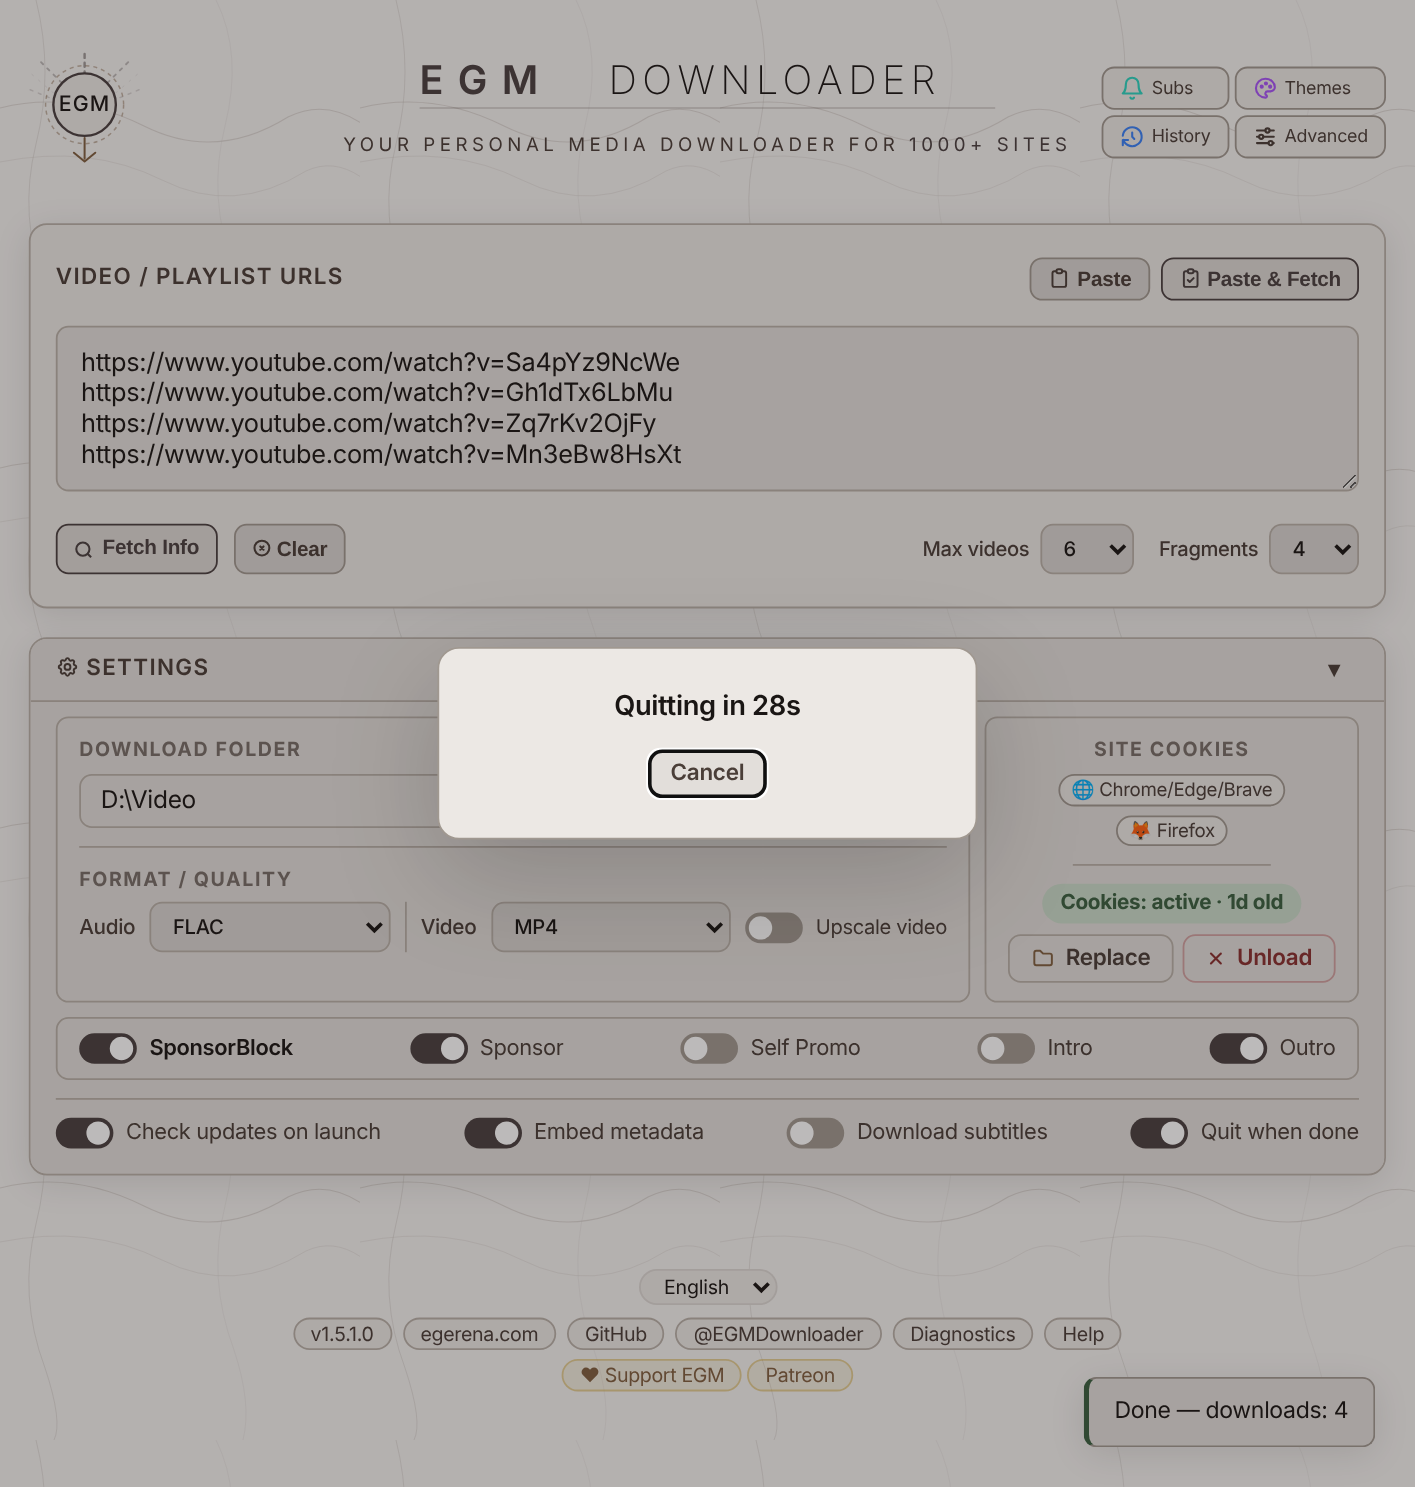
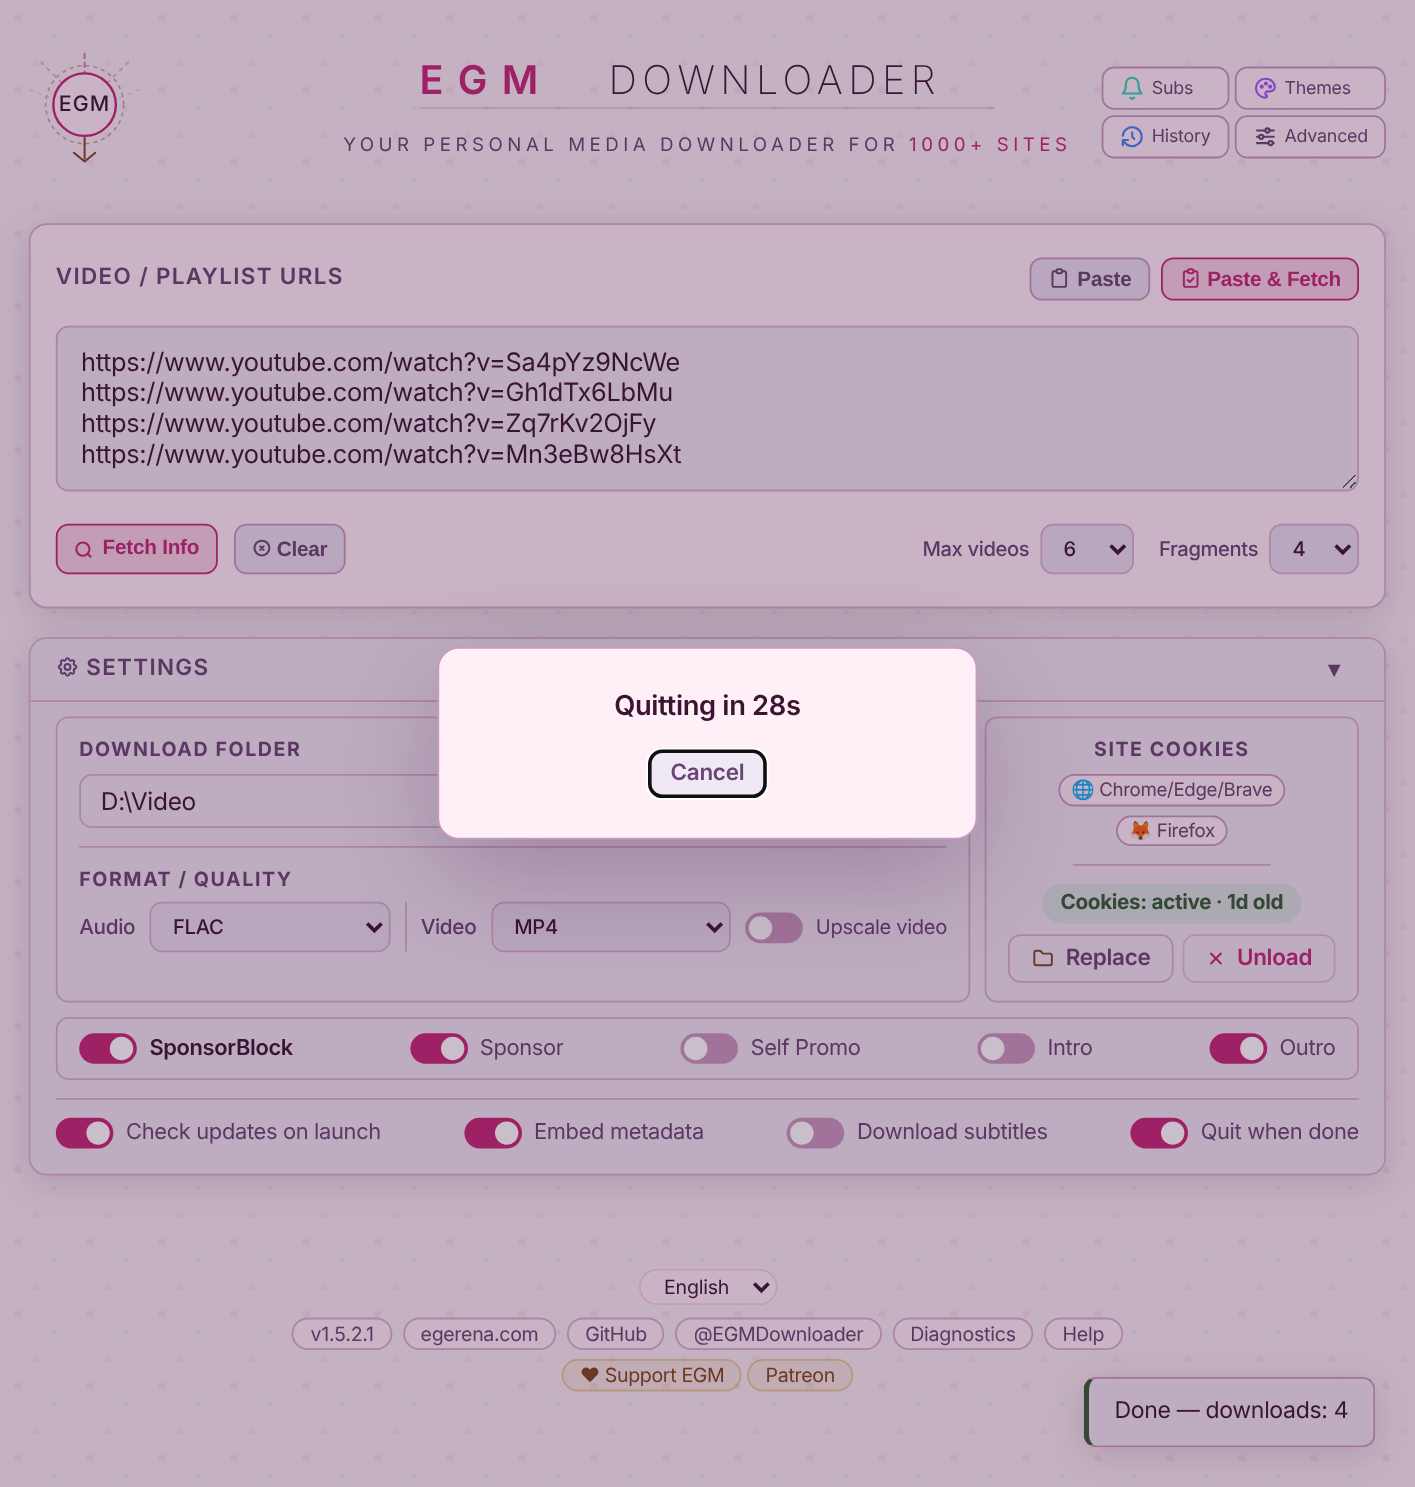
release: v1.5.2.1 Build 174 — RITOCCO, screenshots, SHA256s, CONTRIBUTING

diff --git a/README.md b/README.md
@@ -86,7 +86,7 @@ A side by side look at one well known alternative, using details you can check y
 
 https://github.com/user-attachments/assets/ccfeb78d-4287-40e8-aced-9bebadb11184
 
-> 📸 *Screenshots of v1.5.1.0, STEADY STATE. The UI is identical across Windows, macOS, and Linux.*
+> 📸 *Screenshots of v1.5.2.1, RITOCCO. The UI is identical across Windows, macOS, and Linux.*
 
 <table>
   <tr>
@@ -95,12 +95,12 @@ https://github.com/user-attachments/assets/ccfeb78d-4287-40e8-aced-9bebadb11184
       <br/><sub><b>Splash Screen</b></sub>
     </td>
     <td align="center" width="33%">
-      <a href="screenshots/02-main-ui.png"><img src="screenshots/02-main-ui.png" width="260" alt="Main UI in Arabic, Parchment theme"/></a>
-      <br/><sub><b>Main UI</b> (Arabic, Parchment theme)</sub>
+      <a href="screenshots/02-main-ui.png"><img src="screenshots/02-main-ui.png" width="260" alt="Main UI in Arabic, Halloween theme"/></a>
+      <br/><sub><b>Main UI</b> (Arabic, Halloween theme)</sub>
     </td>
     <td align="center" width="33%">
-      <a href="screenshots/03-advanced-panel.png"><img src="screenshots/03-advanced-panel.png" width="260" alt="Advanced Panel, Halloween theme"/></a>
-      <br/><sub><b>Advanced Panel</b> (Halloween theme)</sub>
+      <a href="screenshots/03-advanced-panel.png"><img src="screenshots/03-advanced-panel.png" width="260" alt="Advanced Panel, Little Blue Box theme"/></a>
+      <br/><sub><b>Advanced Panel</b> (Little Blue Box theme)</sub>
     </td>
   </tr>
 </table>
@@ -108,25 +108,12 @@ https://github.com/user-attachments/assets/ccfeb78d-4287-40e8-aced-9bebadb11184
 <table>
   <tr>
     <td align="center" width="50%">
-      <a href="screenshots/08-live-streams.png"><img src="screenshots/08-live-streams.png" width="271" alt="Live streams recording and a download running, Dubai Midnight theme"/></a>
-      <br/><sub><b>Live Streams</b> (Dubai Midnight theme)</sub>
+      <a href="screenshots/12-card-order.png"><img src="screenshots/12-card-order.png" width="308" alt="Main window with the Settings panel moved above the links card, Neon Punk theme"/></a>
+      <br/><sub><b>Card Order</b> (Neon Punk theme)</sub>
     </td>
     <td align="center" width="50%">
-      <a href="screenshots/09-live-reconnecting.png"><img src="screenshots/09-live-reconnecting.png" width="371" alt="A live stream reconnecting, Neural theme"/></a>
-      <br/><sub><b>Live Stream Reconnecting</b> (Neural theme)</sub>
-    </td>
-  </tr>
-</table>
-
-<table>
-  <tr>
-    <td align="center" width="50%">
-      <a href="screenshots/10-quit-when-done.png"><img src="screenshots/10-quit-when-done.png" width="308" alt="Quit when done countdown, Marble theme"/></a>
-      <br/><sub><b>Quit When Done</b> (Marble theme)</sub>
-    </td>
-    <td align="center" width="50%">
-      <a href="screenshots/06-advanced-plugins.png"><img src="screenshots/06-advanced-plugins.png" width="308" alt="Advanced Panel with the plugins list, Hologram theme"/></a>
-      <br/><sub><b>Advanced Panel, Plugins</b> (Hologram theme)</sub>
+      <a href="screenshots/13-card-drag.png"><img src="screenshots/13-card-drag.png" width="308" alt="Dragging the Settings panel up over the links card by its handle, Havana theme"/></a>
+      <br/><sub><b>Card Order, Dragging</b> (Havana theme)</sub>
     </td>
   </tr>
 </table>
@@ -134,12 +121,12 @@ https://github.com/user-attachments/assets/ccfeb78d-4287-40e8-aced-9bebadb11184
 <table>
   <tr>
     <td align="center" width="50%">
-      <a href="screenshots/04-all-themes.png"><img src="screenshots/04-all-themes.png" width="459" alt="All Themes, Sydney theme"/></a>
-      <br/><sub><b>All Themes</b> (Sydney theme)</sub>
+      <a href="screenshots/08-live-streams.png"><img src="screenshots/08-live-streams.png" width="271" alt="Live streams recording and a download running, Windows XP theme"/></a>
+      <br/><sub><b>Live Streams</b> (Windows XP theme)</sub>
     </td>
     <td align="center" width="50%">
-      <a href="screenshots/11-theme-creator.png"><img src="screenshots/11-theme-creator.png" width="320" alt="Theme Creator with a custom theme, Violet Hour"/></a>
-      <br/><sub><b>Theme Creator</b> (custom Violet Hour theme)</sub>
+      <a href="screenshots/09-live-reconnecting.png"><img src="screenshots/09-live-reconnecting.png" width="371" alt="A live stream reconnecting, Mushroom Kingdom theme"/></a>
+      <br/><sub><b>Live Stream Reconnecting</b> (Mushroom Kingdom theme)</sub>
     </td>
   </tr>
 </table>
@@ -147,12 +134,38 @@ https://github.com/user-attachments/assets/ccfeb78d-4287-40e8-aced-9bebadb11184
 <table>
   <tr>
     <td align="center" width="50%">
-      <a href="screenshots/05-subscriptions.png"><img src="screenshots/05-subscriptions.png" width="444" alt="Subscriptions, Bioluminescent theme"/></a>
-      <br/><sub><b>Subscriptions</b> (Bioluminescent theme)</sub>
+      <a href="screenshots/10-quit-when-done.png"><img src="screenshots/10-quit-when-done.png" width="308" alt="Quit when done countdown, Sugar Riot theme"/></a>
+      <br/><sub><b>Quit When Done</b> (Sugar Riot theme)</sub>
     </td>
     <td align="center" width="50%">
-      <a href="screenshots/07-download-history.png"><img src="screenshots/07-download-history.png" width="334" alt="Download History, Terraform theme"/></a>
-      <br/><sub><b>Download History</b> (Terraform theme)</sub>
+      <a href="screenshots/06-advanced-plugins.png"><img src="screenshots/06-advanced-plugins.png" width="308" alt="Advanced Panel with the plugins list, GameCube theme"/></a>
+      <br/><sub><b>Advanced Panel, Plugins</b> (GameCube theme)</sub>
+    </td>
+  </tr>
+</table>
+
+<table>
+  <tr>
+    <td align="center" width="50%">
+      <a href="screenshots/04-all-themes.png"><img src="screenshots/04-all-themes.png" width="459" alt="All Themes, Valhalla theme"/></a>
+      <br/><sub><b>All Themes</b> (Valhalla theme)</sub>
+    </td>
+    <td align="center" width="50%">
+      <a href="screenshots/11-theme-creator.png"><img src="screenshots/11-theme-creator.png" width="320" alt="Theme Creator with a custom theme, Citron Night"/></a>
+      <br/><sub><b>Theme Creator</b> (custom Citron Night theme)</sub>
+    </td>
+  </tr>
+</table>
+
+<table>
+  <tr>
+    <td align="center" width="50%">
+      <a href="screenshots/05-subscriptions.png"><img src="screenshots/05-subscriptions.png" width="444" alt="Subscriptions, Hylian theme"/></a>
+      <br/><sub><b>Subscriptions</b> (Hylian theme)</sub>
+    </td>
+    <td align="center" width="50%">
+      <a href="screenshots/07-download-history.png"><img src="screenshots/07-download-history.png" width="334" alt="Download History, Woodgrain theme"/></a>
+      <br/><sub><b>Download History</b> (Woodgrain theme)</sub>
     </td>
   </tr>
 </table>
@@ -162,8 +175,8 @@ https://github.com/user-attachments/assets/ccfeb78d-4287-40e8-aced-9bebadb11184
 ### Windows
 🔗 **Platform page:** [windows.egerena.com](https://windows.egerena.com)
 **Latest:** v1.5.2.1  
-**Download:** [EGMd.zip](https://egerena.com/apps/EGMd.zip) (674 KB · ~800 MB after install)  
[1 lines of base64/hex data omitted]
+**Download:** [EGMd.zip](https://egerena.com/apps/EGMd.zip) (679 KB · ~800 MB after install)  
[1 lines of base64/hex data omitted]
 **Install:** Extract `EGMd.zip`, run `egm-setup.exe` and follow the installer. Then paste a video URL, fetch the info, and click Download.  
 **Requirements:** Windows 10/11 (64-bit) · **Python 3.11+** — install from [python.org](https://www.python.org/downloads/) and tick "Add Python to PATH"  
 **Code Signed:** Installer is signed with an IV code signing certificate. SmartScreen may show a warning on first run until the certificate builds reputation.
@@ -171,8 +184,8 @@ https://github.com/user-attachments/assets/ccfeb78d-4287-40e8-aced-9bebadb11184
 
 ### Windows Portable
 **Latest:** v1.5.2.1  
-**Download:** [EGMd-portable.zip](https://egerena.com/apps/EGMd-portable.zip) (684 KB · ~1 GB after first run)  
[1 lines of base64/hex data omitted]
+**Download:** [EGMd-portable.zip](https://egerena.com/apps/EGMd-portable.zip) (692 KB · ~1 GB after first run)  
[1 lines of base64/hex data omitted]
 **Install:** Extract `EGMd-portable.zip` and run `EGM Downloader.exe`. Settings and data stay in the same folder, so you can take it anywhere.  
 **Requirements:** Windows 10/11 (64-bit) · **Python 3.10+** — install from [python.org](https://www.python.org/downloads/) and tick “Add Python to PATH”  
 **No installer, no registry** — runs from any folder or USB drive (system Python 3.10+ is used only to bootstrap; the app then downloads a private embedded Python and runs on that. Node, Electron, ffmpeg & Deno are fetched on first run, and a newer Electron after an app update that needs one)  
@@ -183,7 +196,7 @@ https://github.com/user-attachments/assets/ccfeb78d-4287-40e8-aced-9bebadb11184
 🔗 **Platform page:** [mac.egerena.com](https://mac.egerena.com)
 **Latest:** v1.5.2.1  
 **Download:** [EGMdM.zip](https://egerena.com/apps/EGMdM.zip) (144 MB · ~300 MB after install)  
[2 lines of base64/hex data omitted]
 **Install:** Extract `EGMdM.zip`, open the `.dmg`, drag "EGM Downloader" to Applications, and launch it.  
 **Requirements:** macOS 13.0 (Ventura) or later · Apple Silicon (M1–M5) only  
 **Signed & Notarized:** This build is Apple notarized — runs without Gatekeeper warnings
@@ -193,7 +206,7 @@ https://github.com/user-attachments/assets/ccfeb78d-4287-40e8-aced-9bebadb11184
 🔗 **Platform page:** [linux.egerena.com](https://linux.egerena.com)
 **Latest:** v1.5.2.1  
 **Download:** [EGMdL.zip](https://egerena.com/apps/EGMdL.zip) (171 MB · ~300 MB after install)  
[2 lines of base64/hex data omitted]
 **Install:** Extract `EGMdL.zip`, make it executable with `chmod +x "EGM Downloader.AppImage"`, then double-click to launch (or run it from a terminal).  
 **Format:** AppImage (Universal)  
 **Supported Distros:** Ubuntu 20.04+, Mint 20+, Pop!_OS, Fedora 39+, Arch, and more

diff --git a/CONTRIBUTING.md b/CONTRIBUTING.md
@@ -62,7 +62,7 @@ Steps:
 Expected: All videos download
 Actual: Only first 50 videos download
 
-Environment: Windows 11, EGM Downloader v1.5.1.0
+Environment: Windows 11, EGM Downloader v1.5.2.1
 ```
 
 ### Suggesting Features
